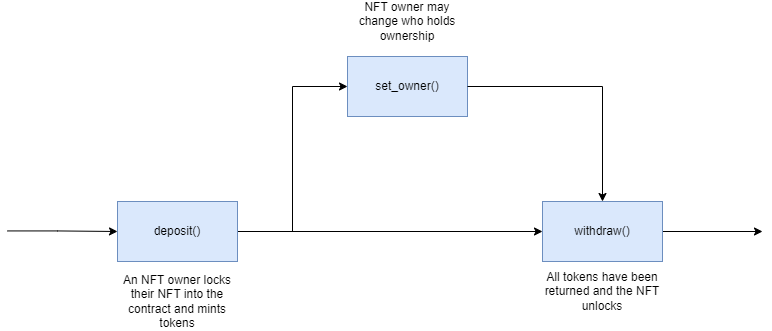
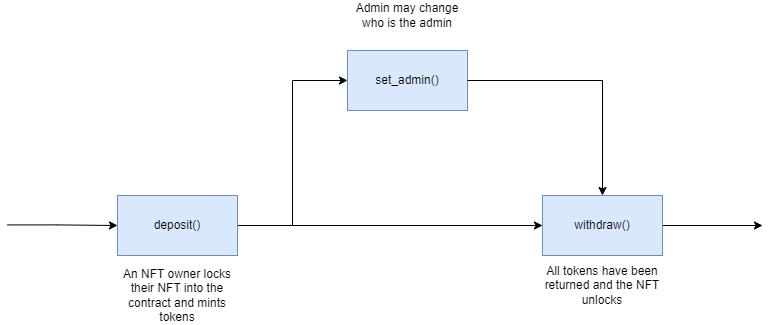
Update docs and diagrams

diff --git a/fractional-NFT/README.md b/fractional-NFT/README.md
@@ -7,7 +7,7 @@
 
 ## Overview
 
-The Fractional NFT Application will lock an NFT into a fractional-NFT(f-NFT) contract and allow users to purchase the fractionalized tokens. These tokens can then be bought and sold on an AMM or if a buyback is initiated, returned to the distribution contract. If all tokens are returned, the NFT owner may unlock the NFT from the f-NFT contract and regain full ownership.
+The Fractional NFT Application will lock an NFT into a fractional-NFT(f-NFT) contract and allow users to purchase the newly minted fractionalized tokens. These tokens can then be bought and sold on an AMM or if a buyback is initiated, return them to the distribution contract. If all tokens are returned, the admin may unlock the NFT from the f-NFT contract and regain full ownership.
 
 More information can be found in the [specification](./SPECIFICATION.md).
 
